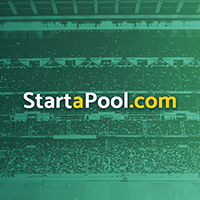
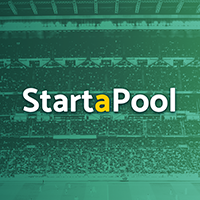
StartaPool.com to StartaPool

Changed region(s): [[0.09, 0.42, 0.9, 0.57]]

diff --git a/pages/index.md b/pages/index.md
@@ -163,7 +163,7 @@ permalink: /
 <div class="block with-avatar" id="ctc-block">
     <h2>Free Online Sports Pools</h2>
     <p>
-        <a href="https://www.startapool.com/" title="StartaPool.com"><img src="/start-a-pool.png?_={{ site.time | date: '%Y%m%d%H%M%S' }}" alt="StartaPool.com" class="avatar" /><strong>StartaPool.com</strong></a> offers a free-to-try platform to manage sports pools for casual fans. If your family, friends, office or a group of any size is looking for a home for your next pool then we are your solution! Why wait?
+        <a href="https://www.startapool.com/" title="StartaPool.com"><img src="/start-a-pool.png?_={{ site.time | date: '%Y%m%d%H%M%S' }}" alt="StartaPool" class="avatar" /><strong>StartaPool</strong></a> offers a free-to-try platform to manage sports pools for casual fans. If your family, friends, office or a group of any size is looking for a home for your next pool then we are your solution! Why wait?
     </p>
     <ul class="platforms">
         <li>
